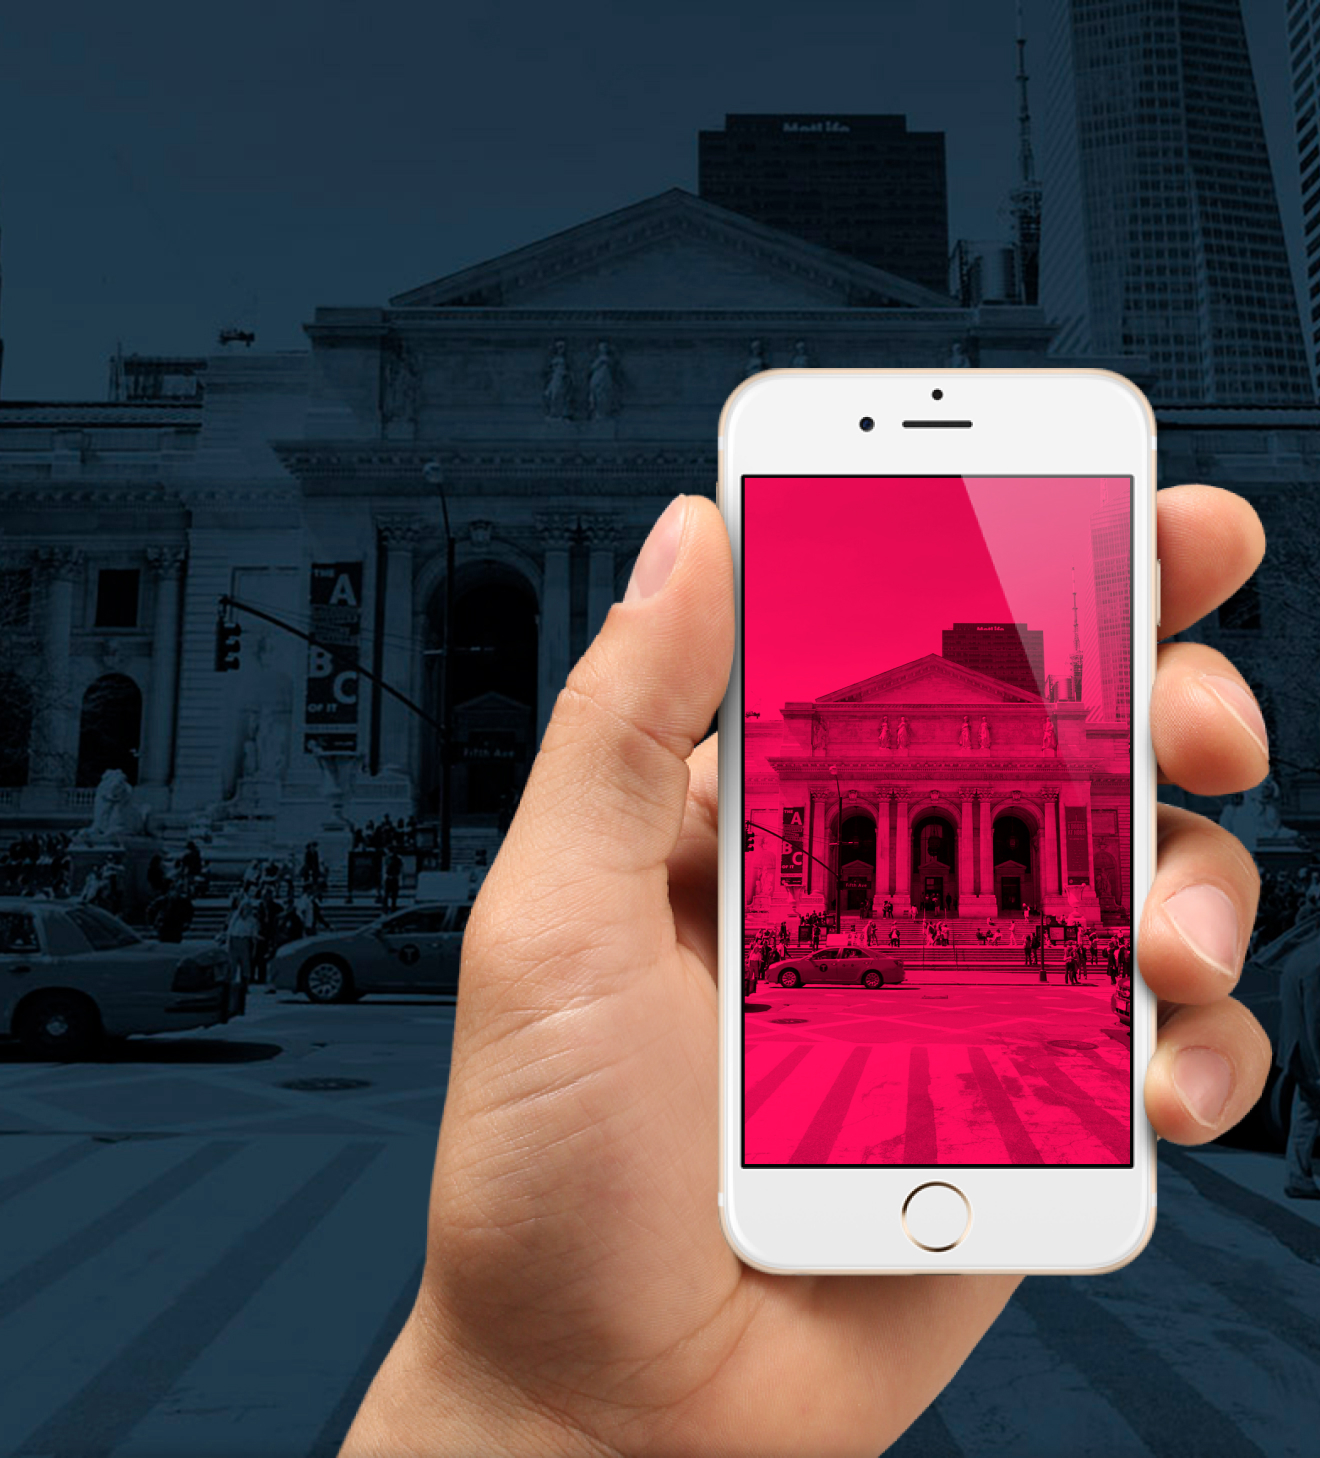
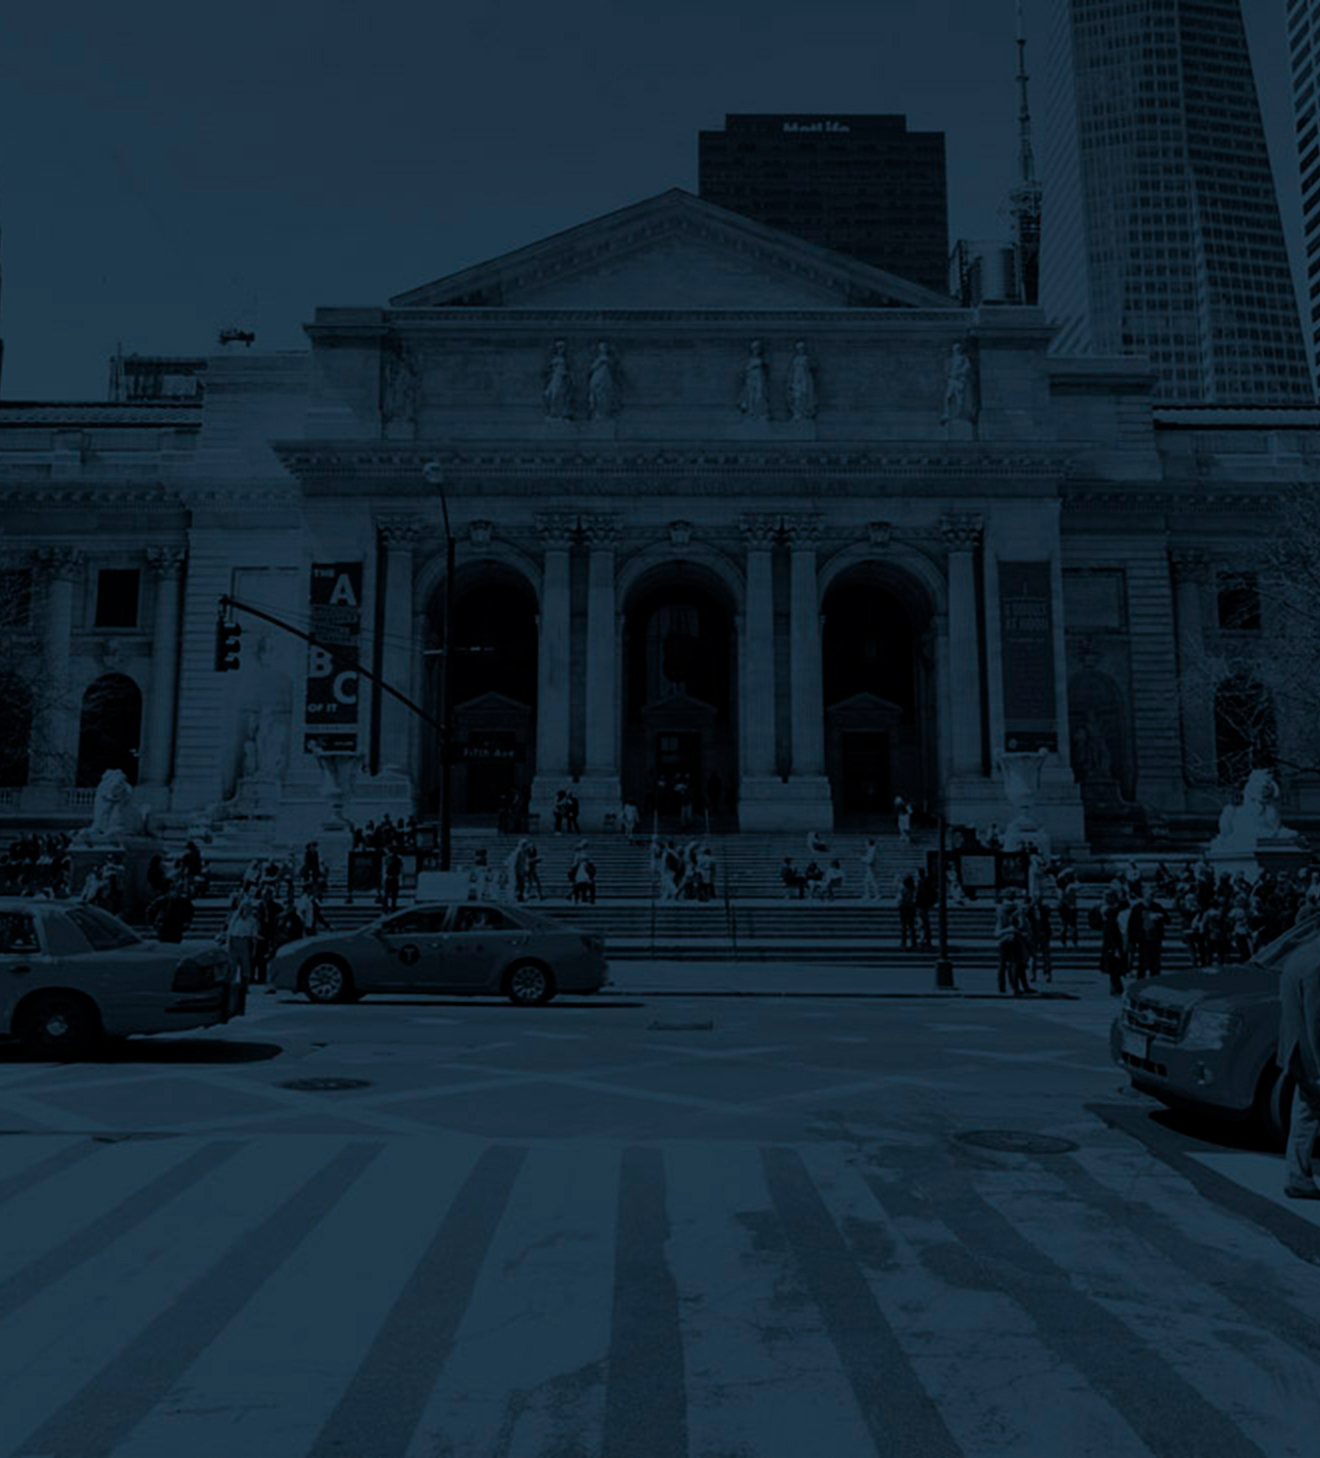
Адаптивная графика для главной страницы(исправления 2.0)

diff --git a/source/less/blocks/promo.less b/source/less/blocks/promo.less
@@ -9,12 +9,11 @@
 
   @media (min-resolution: 2dppx) {
     background-image: url("../img/background/mobile/bgc-promo-mobile@2x.jpg");
-    background-size: 640px;
+    background-size: 640px auto;
   }
 
   @media (min-width: @tablet-width) {
     background-image: url("../img/background/tablet/bgc-promo-tablet.jpg");
-    background-position: center center;
     background-repeat: no-repeat;
     background-size: 100% auto;
     min-height: 725px;
@@ -22,7 +21,7 @@
 
     @media (min-resolution: 2dppx) {
       background-image: url("../img/background/tablet/bgc-promo-tablet@2x.jpg");
-      background-size: 1320px;
+      background-size: 1320px auto;
     }
   }
 
@@ -35,7 +34,7 @@
 
     @media (min-resolution: 2dppx) {
       background-image: url("../img/background/desktop/bgc-promo-desktop@2x.jpg");
-      background-size: 2400px;
+      background-size: 2400px auto;
     }
   }
 }
@@ -56,6 +55,7 @@
     width: 620px;
     min-height: inherit;
     padding: 0;
+    position: relative;
   }
 
   @media (min-width: @desktop-width) {
@@ -68,15 +68,34 @@
   flex-direction: column;
   align-items: center;
   justify-content: flex-end;
-  min-height: inherit;
   margin-bottom: 30px;
+  position: relative;
 
   @media (min-width: @tablet-width) {
     justify-content: center;
+    position: initial;
+    z-index: 3;
   }
 
   @media (min-width: @tablet-width) {
     min-height: 280px;
+  }
+}
+
+.promo__img-hand {
+  margin-bottom: 22px;
+
+  @media (min-width: @tablet-width) {
+    position: absolute;
+    top: 213px;
+    left: 0;
+    z-index: 1;
+  }
+
+  @media (min-width: @desktop-width) {
+    top: inherit;
+    bottom: -22px;
+    left: 54px;
   }
 }
 
@@ -108,6 +127,7 @@
   color: @basic-white;
   margin: 0;
   margin-top: 89px;
+  margin-bottom: 65px;
   width: 225px;
   text-align: center;
 
@@ -115,7 +135,7 @@
     font-size: 40px;
     line-height: 48px;
     margin-left: 57px;
-    margin-top: 150px;
+    margin-top: 160px;
     margin-bottom: 14px;
     width: 190px;
   }
@@ -139,8 +159,8 @@
   border: 3px solid @basic-white;
   border-radius: 40px;
   text-align: center;
-  padding-top: 21px;
-  padding-bottom: 21px;
+  padding-top: 16px;
+  padding-bottom: 16px;
   padding-left: 15px;
   padding-right: 15px;
   margin-bottom: 23px;

diff --git a/source/index.html b/source/index.html
@@ -72,6 +72,12 @@
     <section class="promo">
       <div class="promo__wrapper">
         <h1 class="promo__title">Взгляните на жизнь иначе!</h1>
+        <picture>
+          <source media="(min-width: 1200px)" srcset="img/content/desktop/hand-desktop.png 1x, img/content/desktop/hand-desktop@2x.png 2x">
+          <source media="(min-width: 660px)" srcset="img/content/tablet/hand-tablet.png 1x, img/content/tablet/hand-tablet@2x.png 2x">
+          <img class="promo__img-hand" src="img/content/mobile/hand-mobile.png"
+          srcset="img/content/mobile/hand-mobile@2x.png 2x" alt="Фотография руки с телефоном с приложением Pink">
+        </picture>
         <div class="promo__content">
           <a class="promo__download" href="https://www.apple.com/ru/app-store/">Скачать приложение</a>
           <ul class="promo__list">
